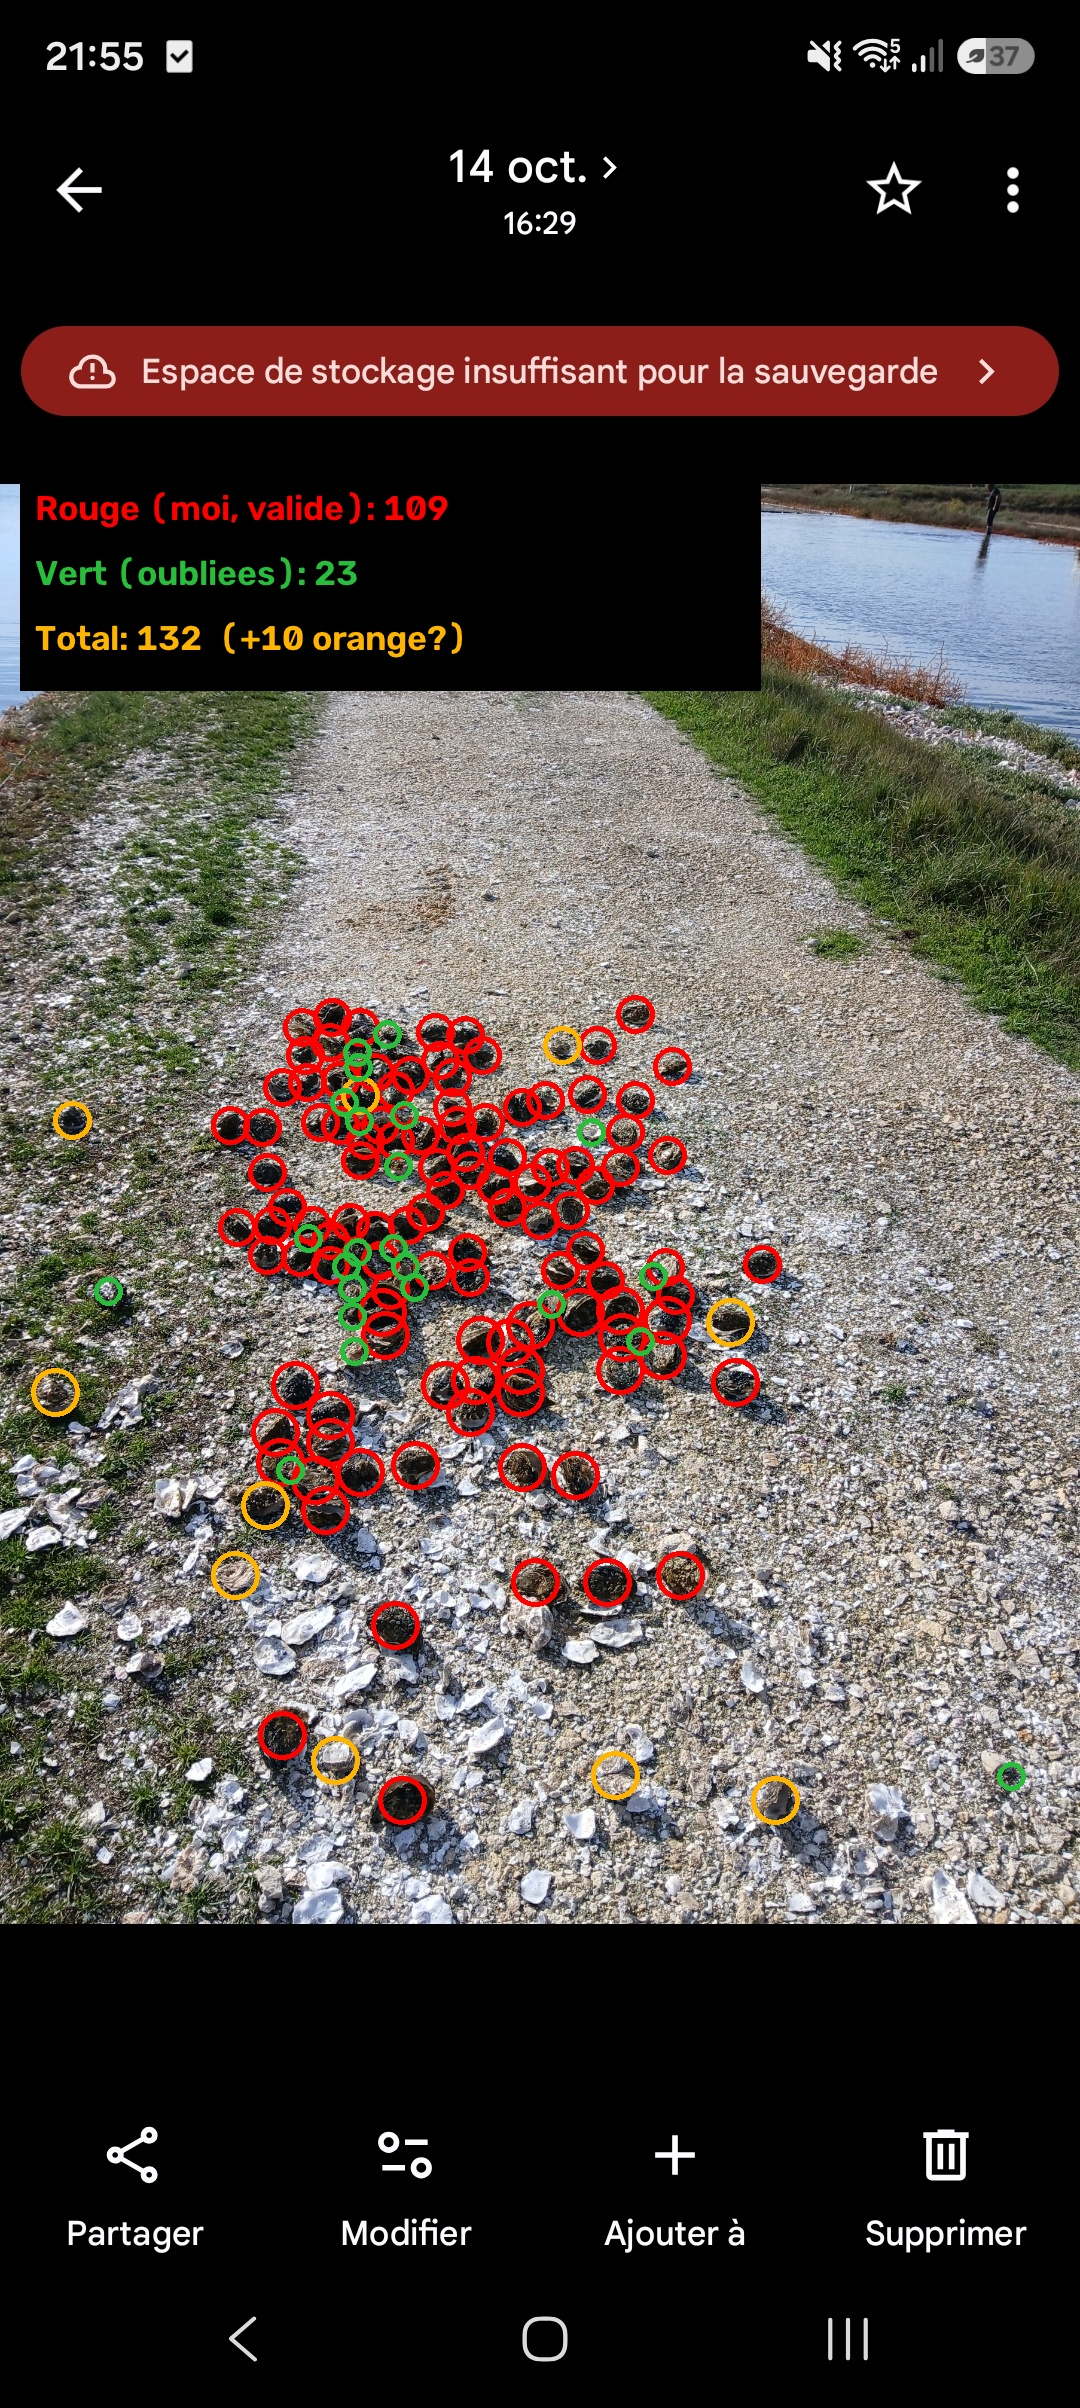
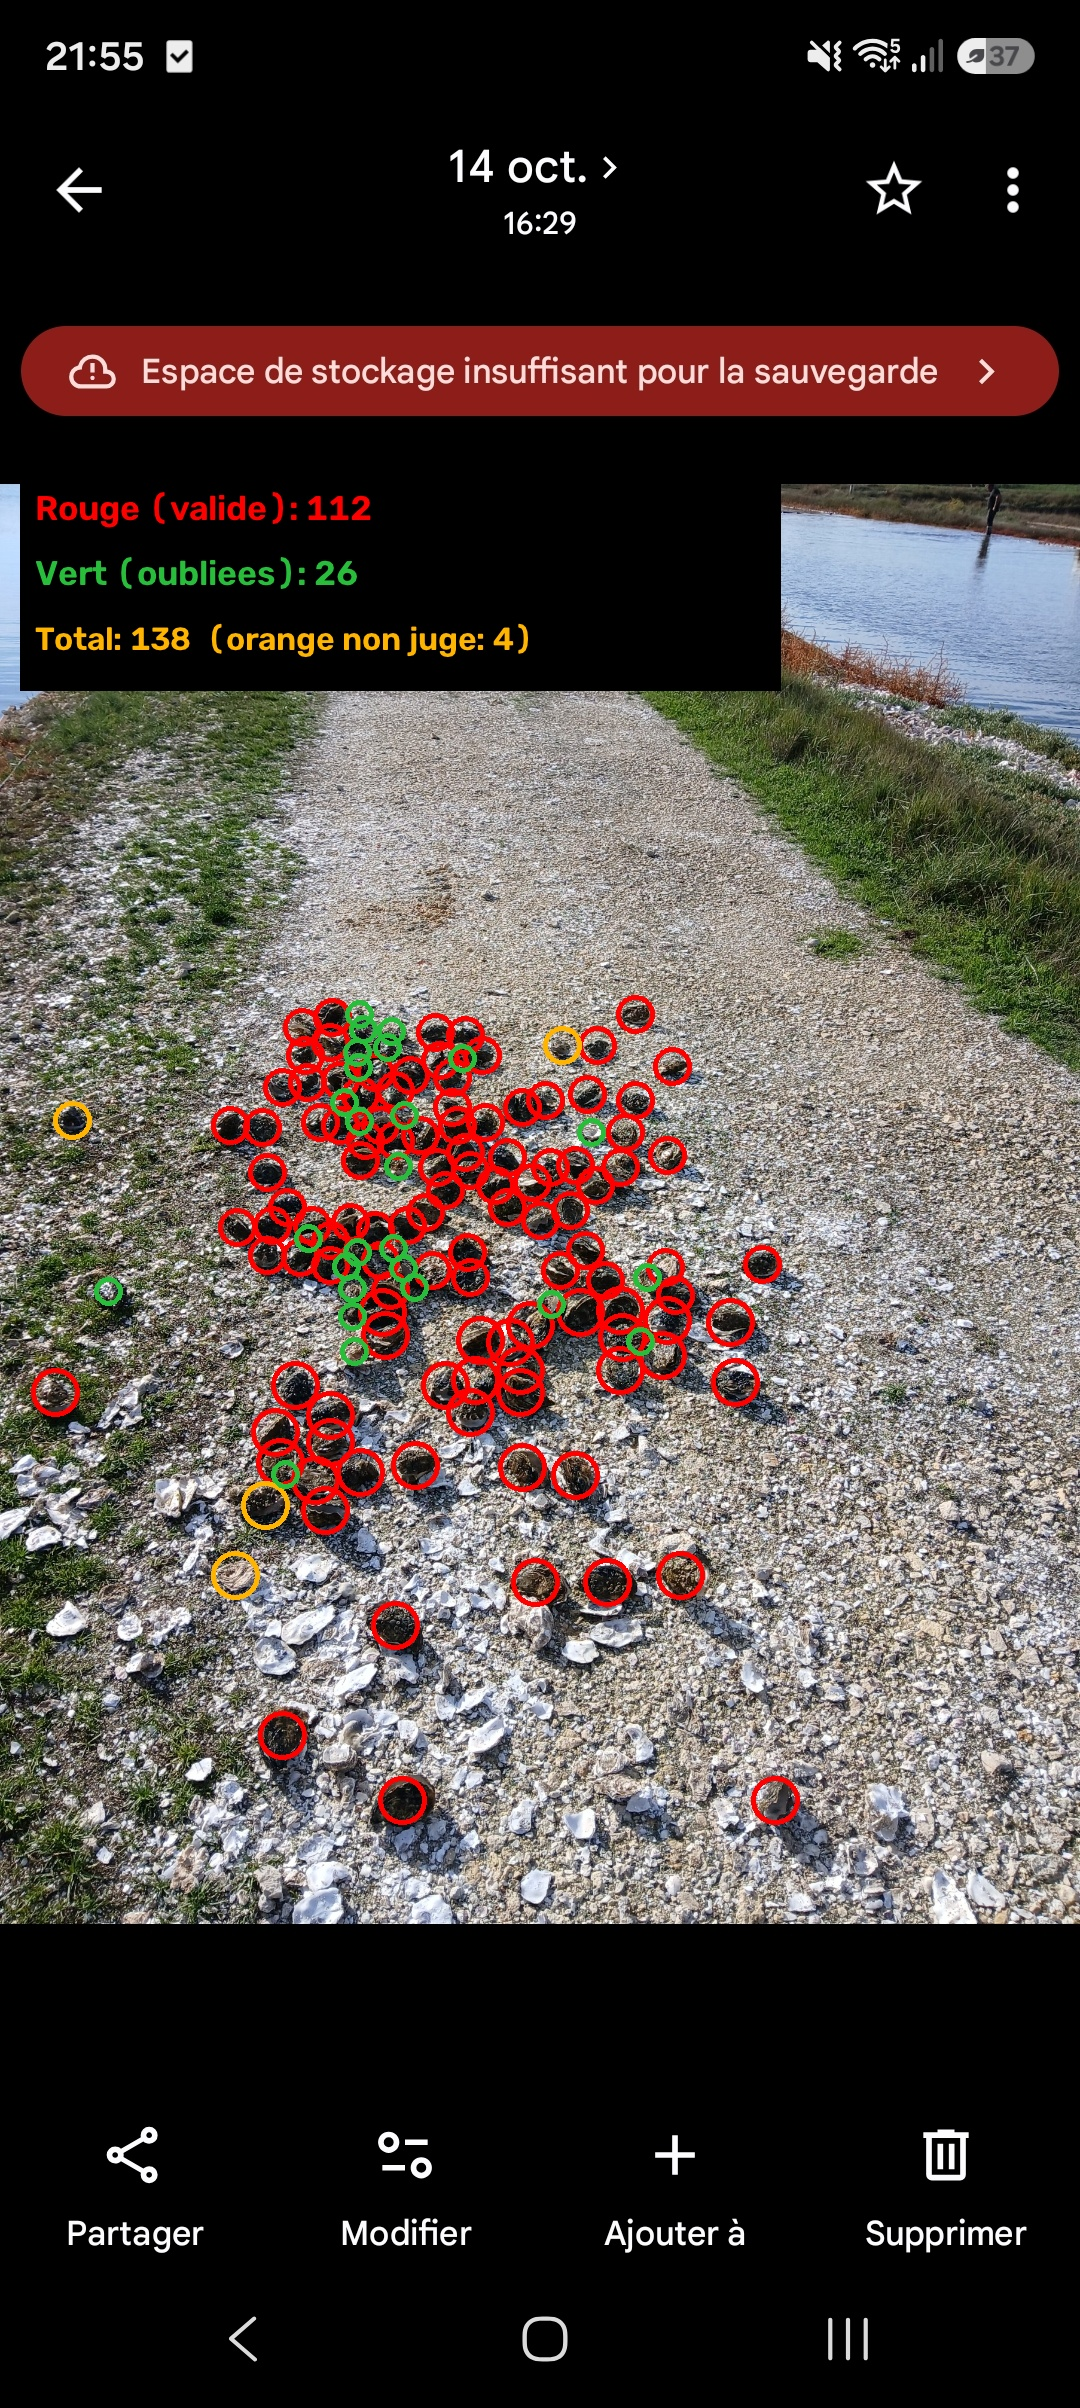
Update 14 Oct oyster count to 138 after second user review; refine method
Claude-Session: https://claude.ai/code/session_01CVJzFyAg9CVrvMqaLfEasL

diff --git a/huitres/METHODE.md b/huitres/METHODE.md
@@ -11,14 +11,17 @@
 | | |
 |---|---|
 | Mon 1er comptage | 110 rouges + 11 oranges |
-| Vérité après correction | **132** (109 de mes rouges + 23 oubliées) |
-| Précision de mes rouges | 109/110 = **99 %** → quand je dis « sûr », c'est fiable |
-| Rappel | 109/132 = **83 %** → **mon défaut : j'en oublie** |
+| Vérité après 2e correction | **138** (108 rouges + 4 oranges validées + 26 oubliées) |
+| Précision de mes rouges | 108/110 = **98 %** → quand je dis « sûr », c'est fiable |
+| Précision de mes oranges | 4 vraies / 3 fausses / 4 non jugées → ~50/50, l'orange a du sens |
+| Rappel | 112/138 = **81 %** → **mon défaut : j'en oublie** |
 | Détecteur automatique seul | F1 0.74 : trop de faux positifs (herbe, ombres) |
 
-Où étaient les oubliées : presque toutes dans **le tas dense**, où 2–3 huîtres se
-chevauchent et où j'avais mis un seul cercle. Plus 2 isolées sur les bords (herbe).
-Cause : tuiles trop grandes, zoom ×2 seulement.
+Où étaient les oubliées : presque toutes dans **le tas dense**, surtout son **bord haut-gauche**
+(6 oubliées dans un carré de 50 px), où 2–3 huîtres se chevauchent et où j'avais mis un seul
+cercle. Plus 1 isolée dans l'herbe à gauche.
+Cause : tuiles trop grandes, zoom ×2 seulement. Règle : dans un tas, compter **au moins
+1 huître par carré de grille de 25 px** couvert de coquilles foncées, puis vérifier.
 
 ## Procédure
 
